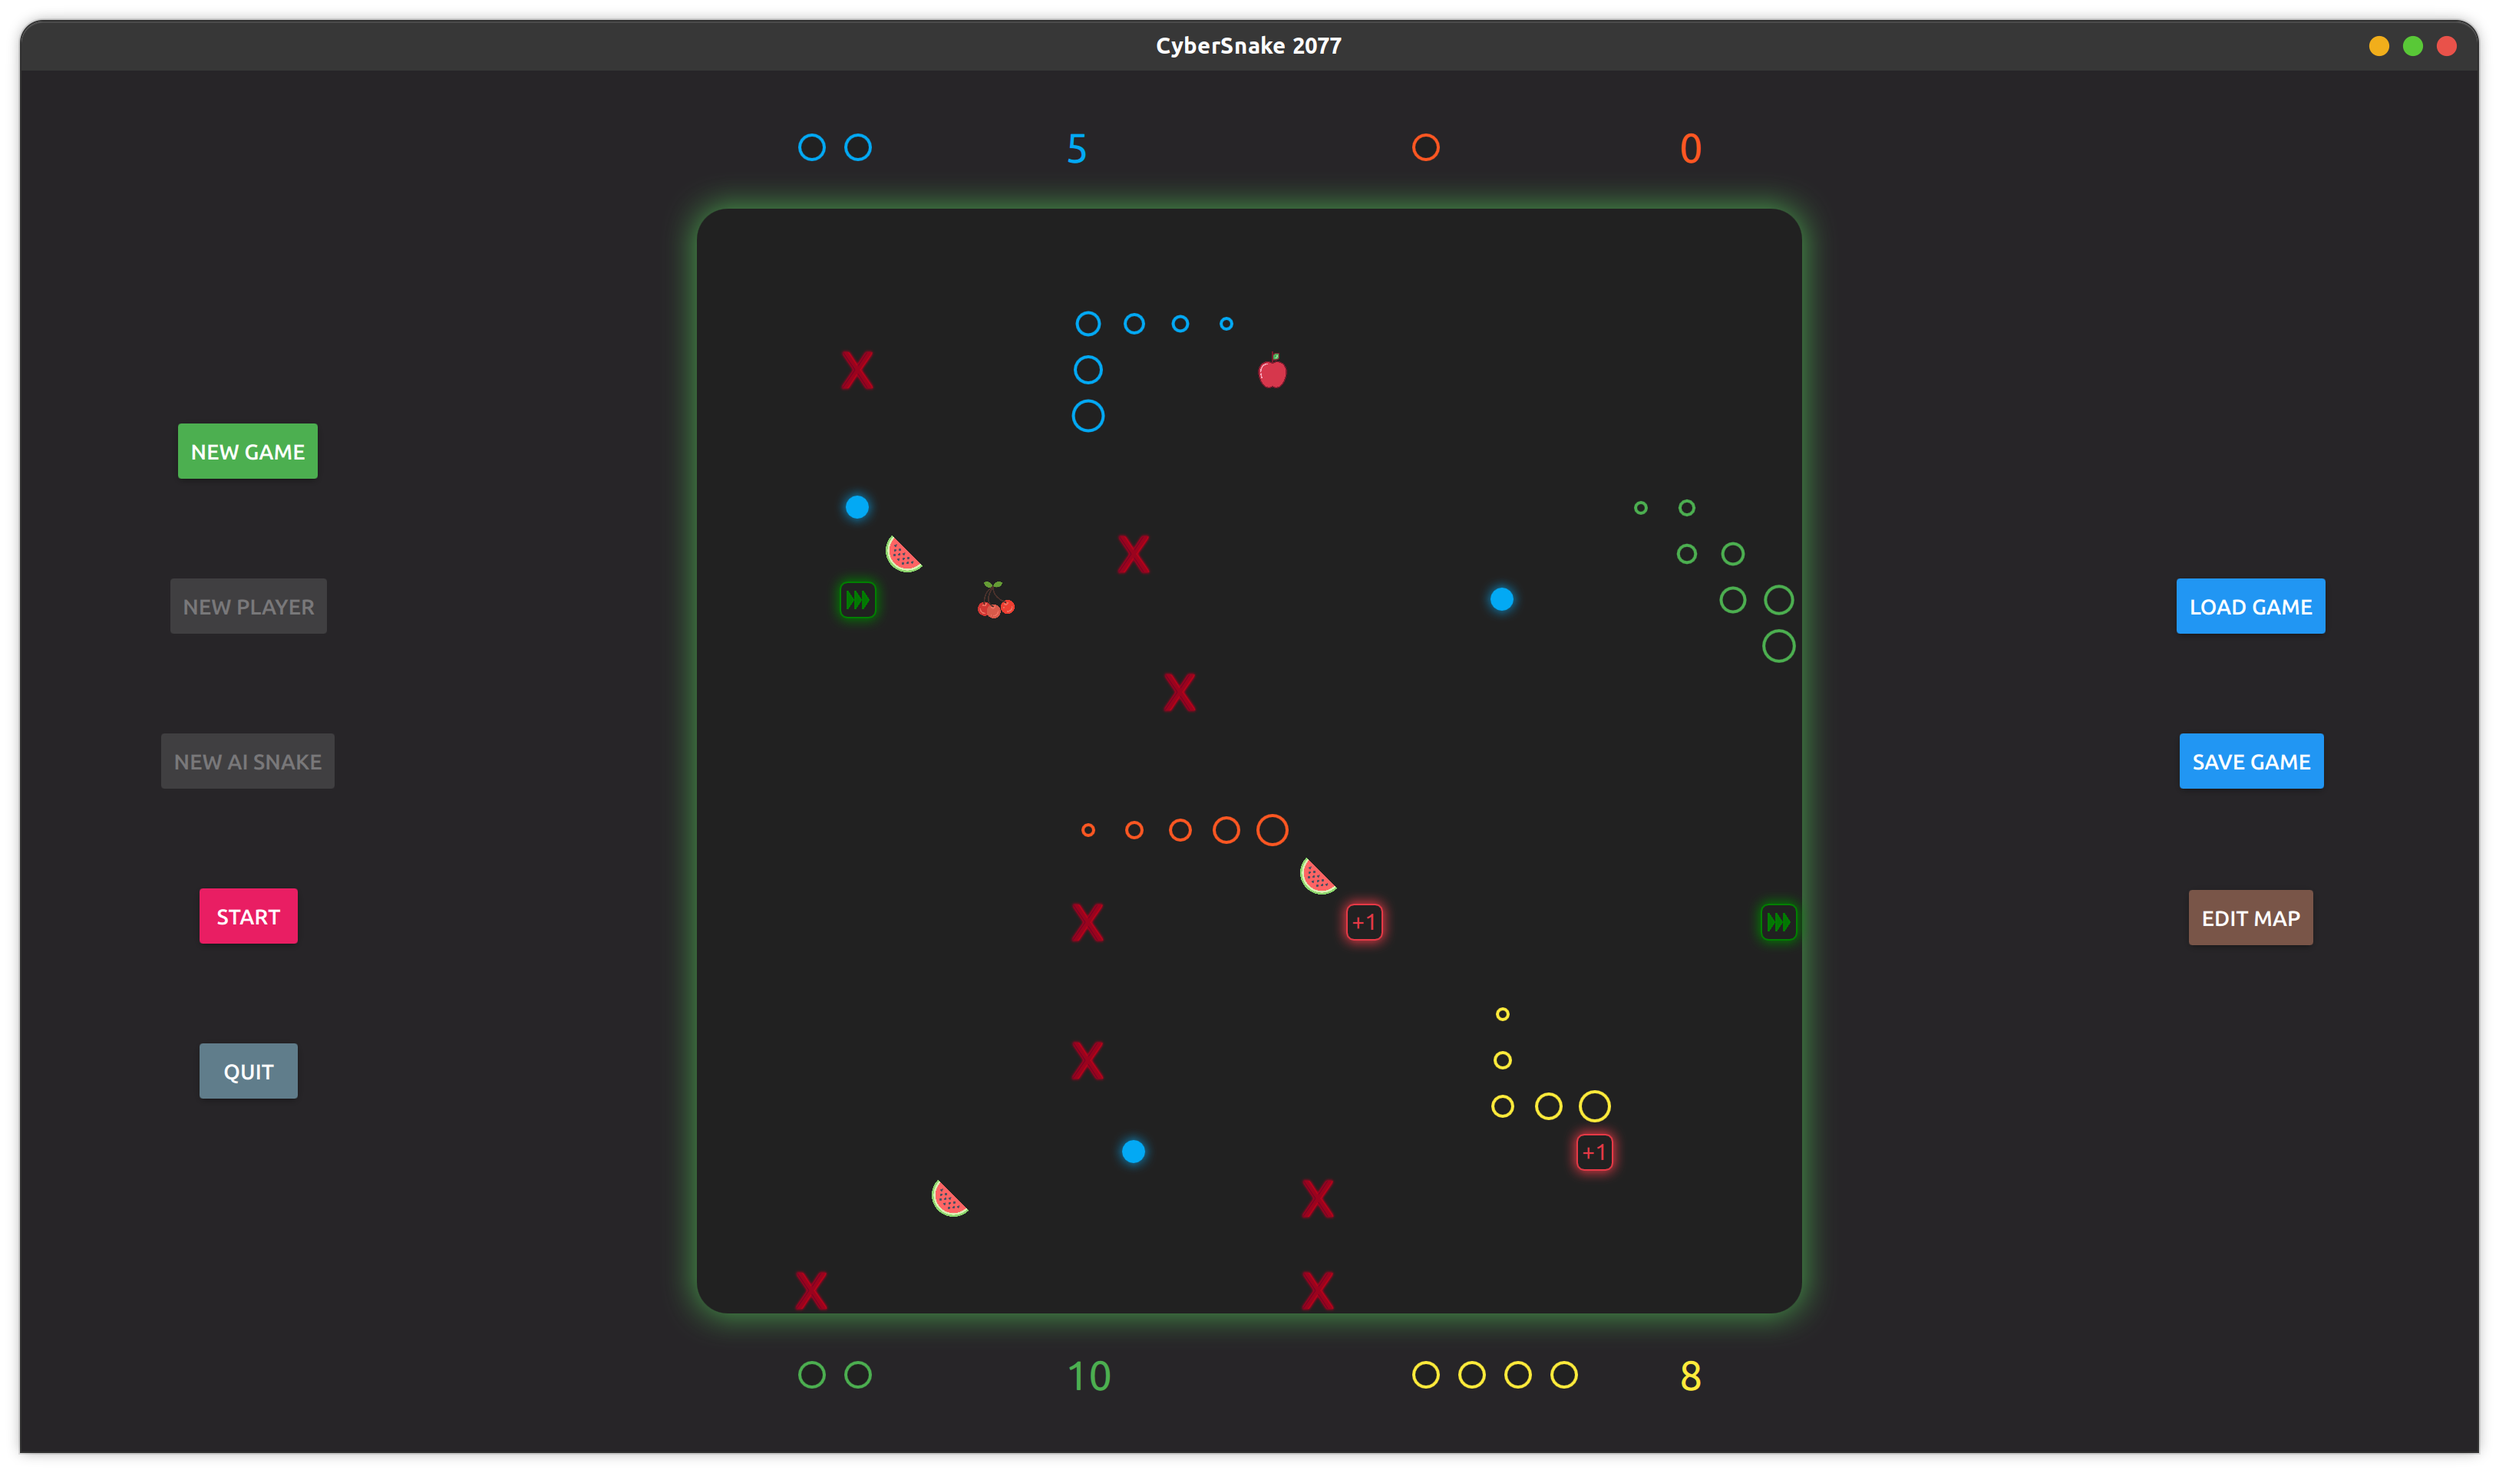
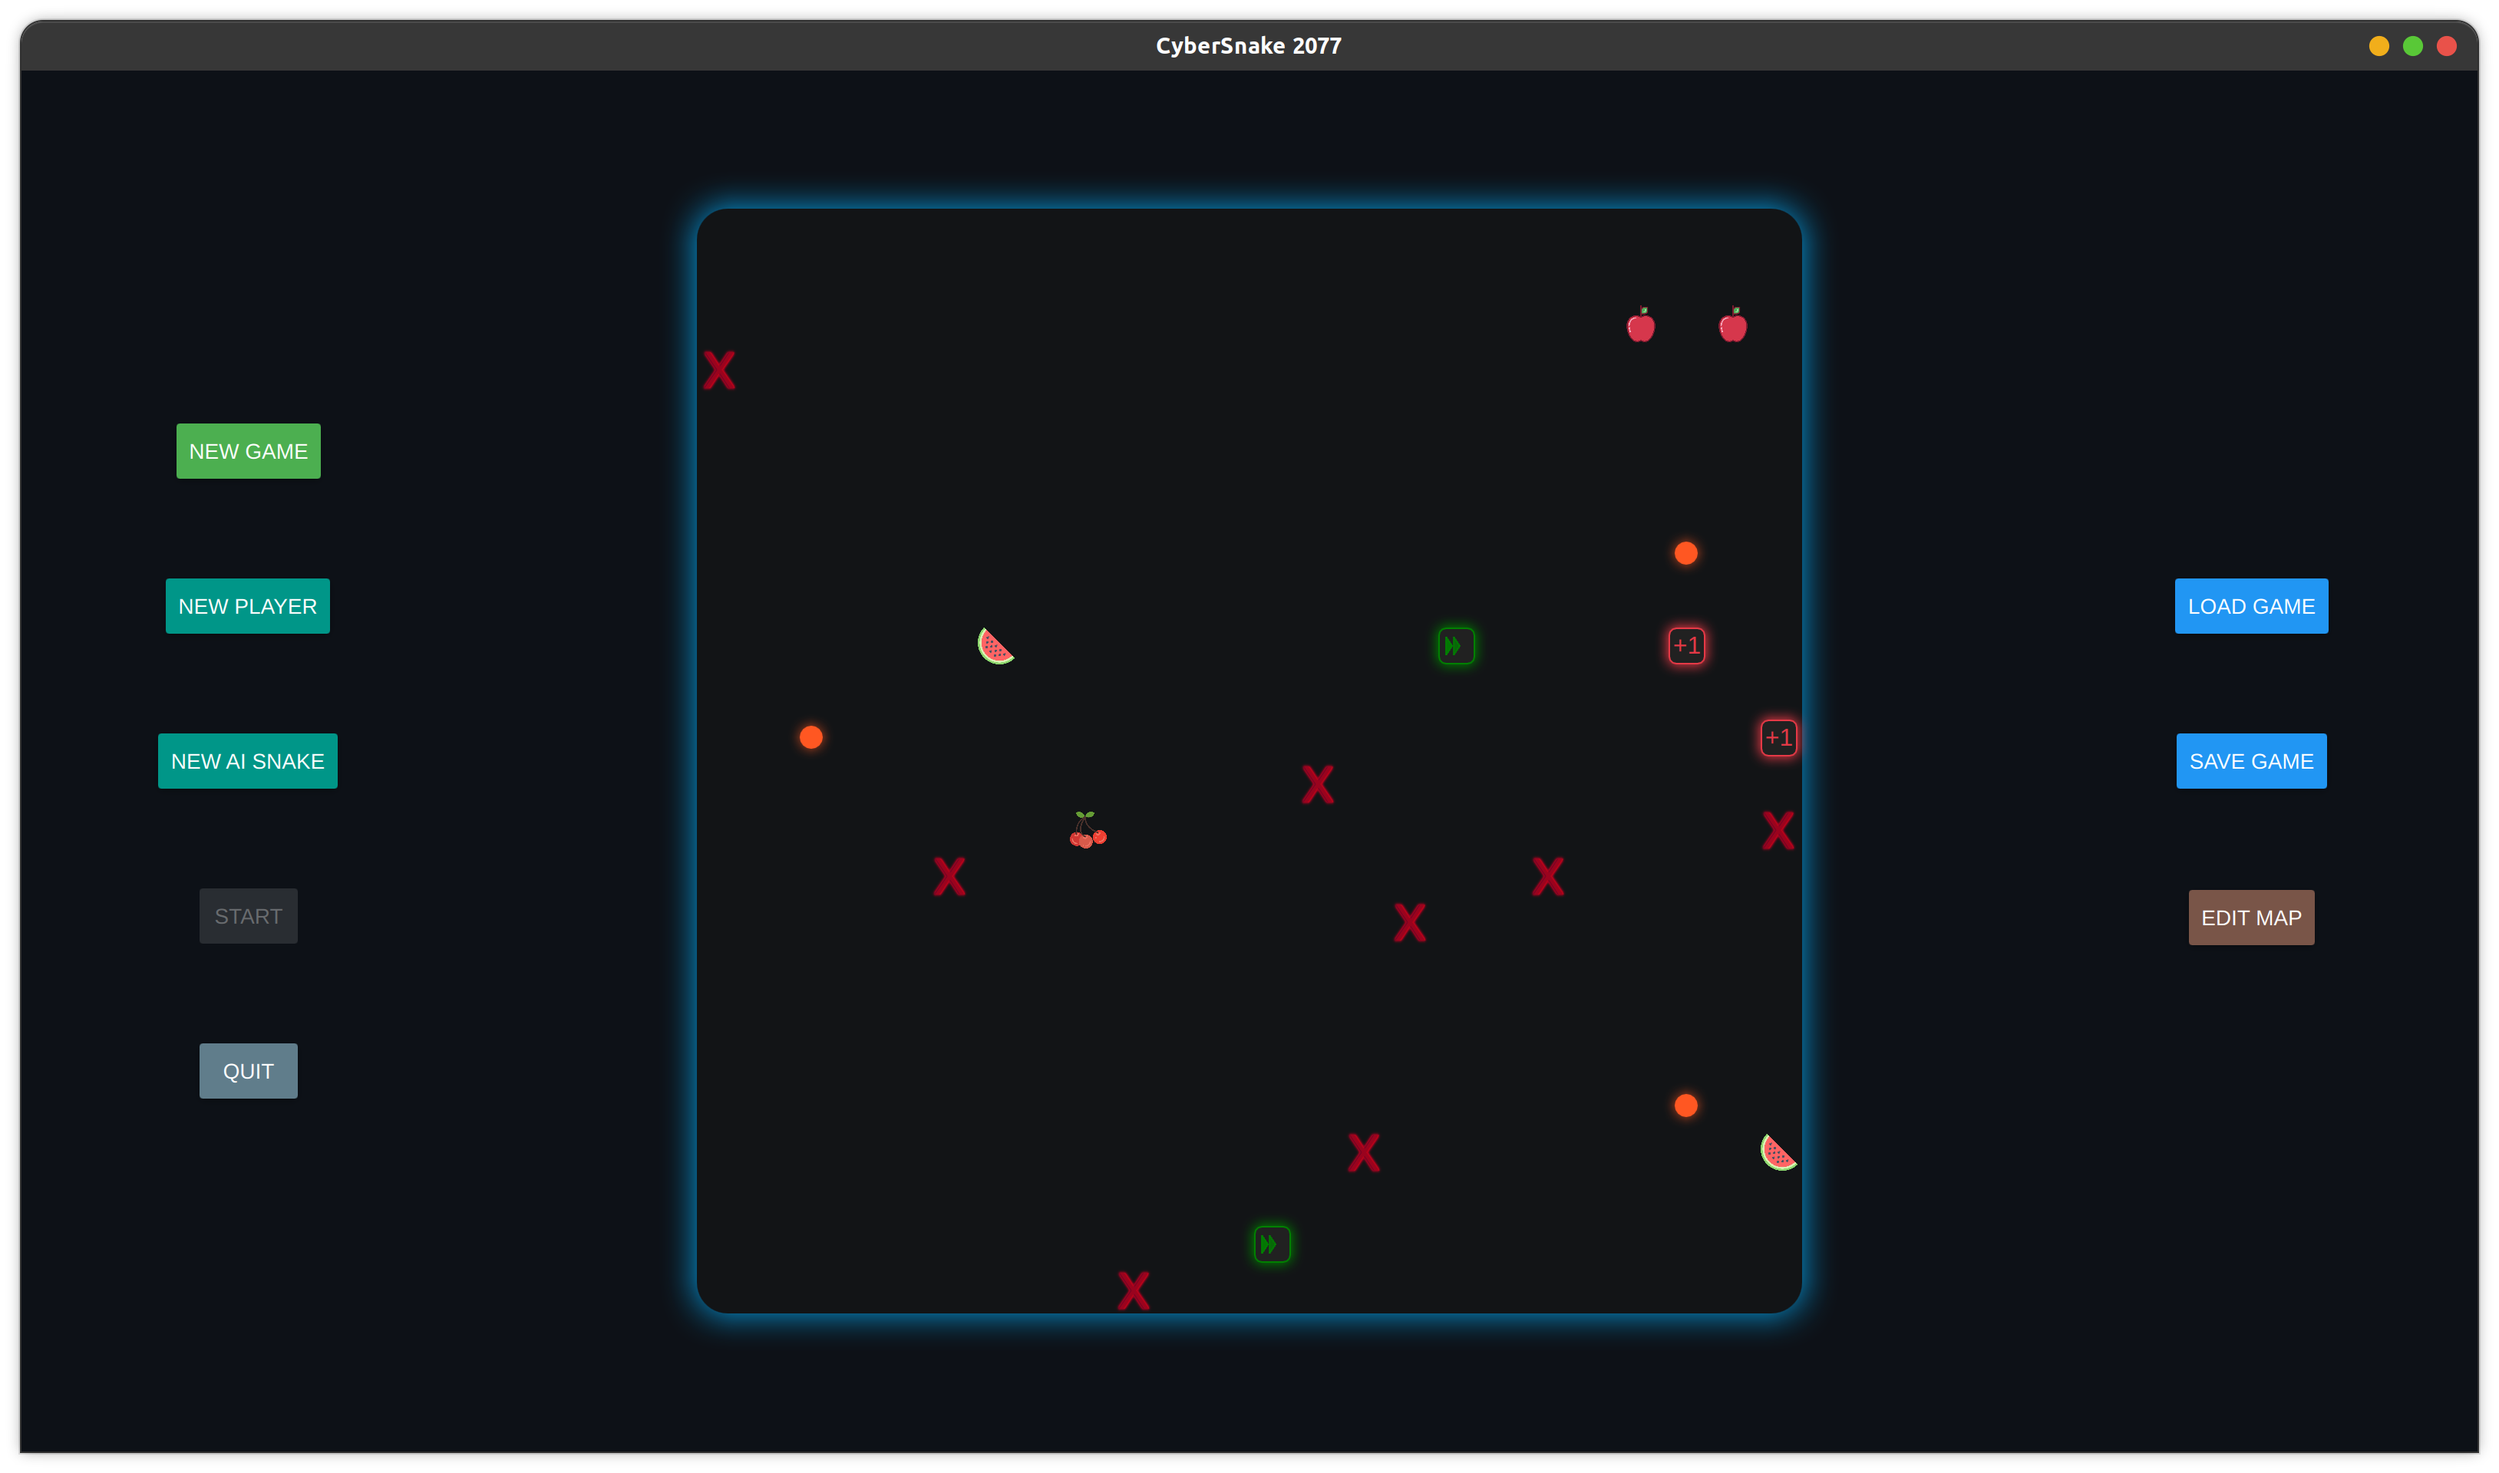
improve color

diff --git a/GameBoard.qml b/GameBoard.qml
@@ -99,7 +99,7 @@ Item {
         id: canvas
         width: 720
         height: 720
-        color: '#212121'
+        color: '#121416'
         radius: 20
         anchors.centerIn: parent
     }

diff --git a/main.qml b/main.qml
@@ -9,7 +9,7 @@ Window {
     visible: true
     width: 1600
     height: 900
-    color: "#272528"
+    color: "#0D1117"
     title: qsTr("CyberSnake 2077")
     Material.theme: Material.Dark
 
